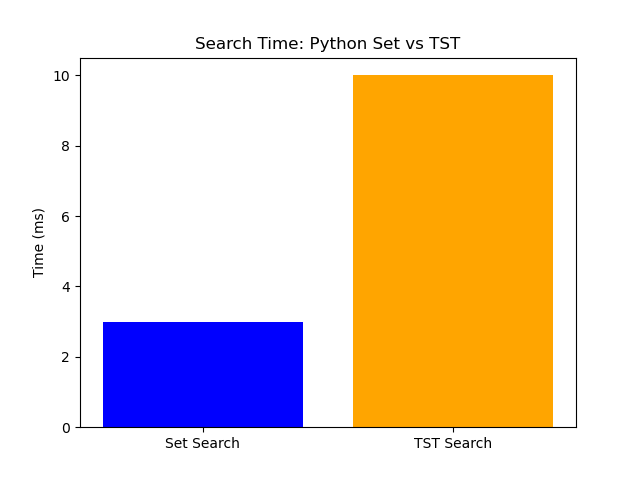
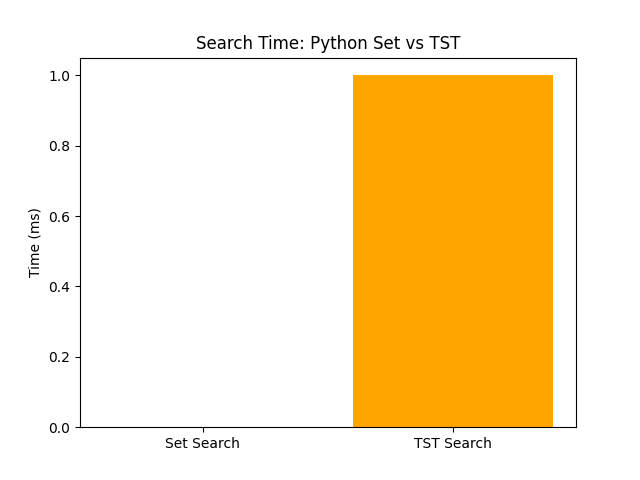
try out some benchmarking variations

diff --git a/benchmarking.py b/benchmarking.py
@@ -1,4 +1,5 @@
 """
+
 benchmark_tst.py
 
 This script benchmarks the performance of a Ternary Search Tree (TST) in terms of insert and search time, across increasing tree sizes. It also compares TST performance to Python's built-in set().
@@ -28,7 +29,7 @@ words[:20]
 # BENCHMARK PARAMETERS
 # -------------------------------
 sizes = [100, 500, 1_000, 5_000, 10_000, 20_000, 30_000, 40_000, 50_000]  # Sizes of trees to build
-nr_runs = 300  # Number of benchmark runs to average timing results
+nr_runs = 10  # Number of benchmark runs to average timing results
 
 # create a list of random samples for each size
 samples = [
@@ -44,16 +45,20 @@ insert_times = {}
 
 # Benchmark insert performance as tree size increases
 for sample in samples:
-    tst = TernarySearchTree()
+    #tst = TernarySearchTree()
 
     # First, build the tree with the sample size
-    for word in sample:
-        tst.insert(word)
+    #for word in sample:
+    #    tst.insert(word)
 
     insert_times[len(sample)] = 0.0
 
     # Measure the time to insert 20 new words (multiple runs for averaging)
     for _ in range(nr_runs):
+        tst = TernarySearchTree()
+        for word in sample:
+            tst.insert(word)
+
         start_time = time.time_ns()
         for word in insert_sample:
             tst.insert(word)
